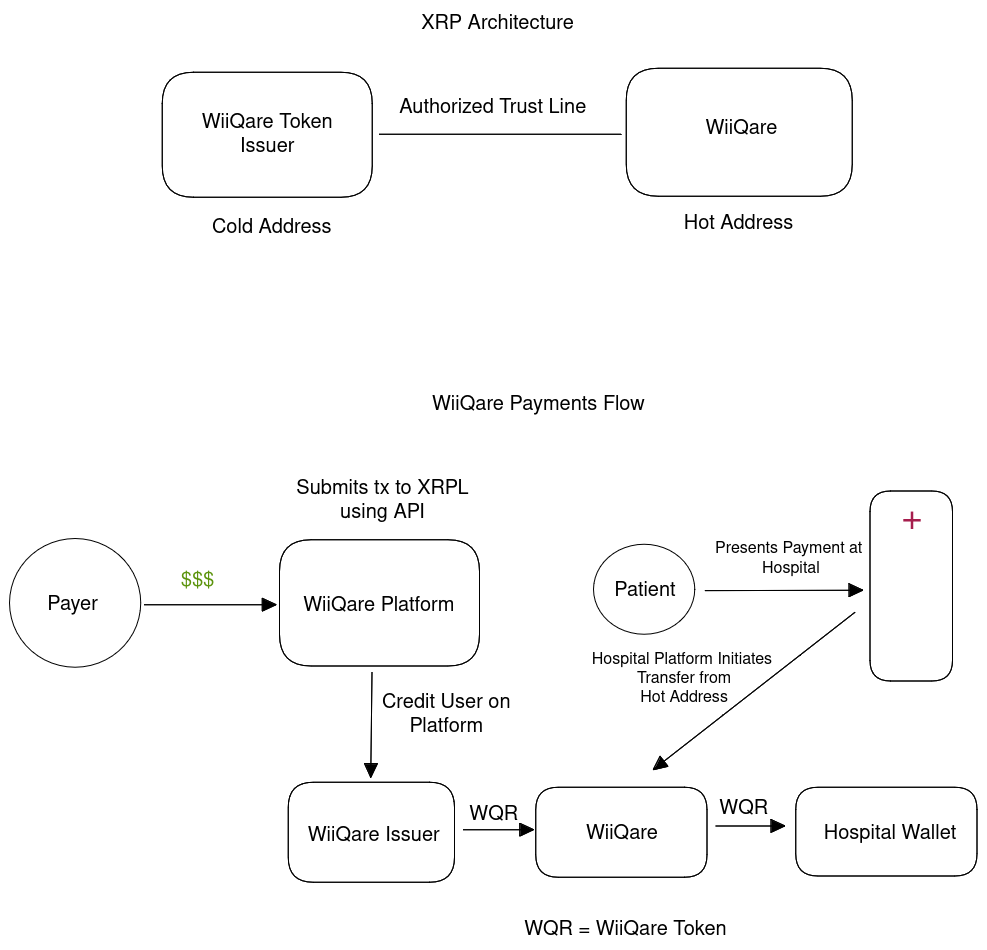
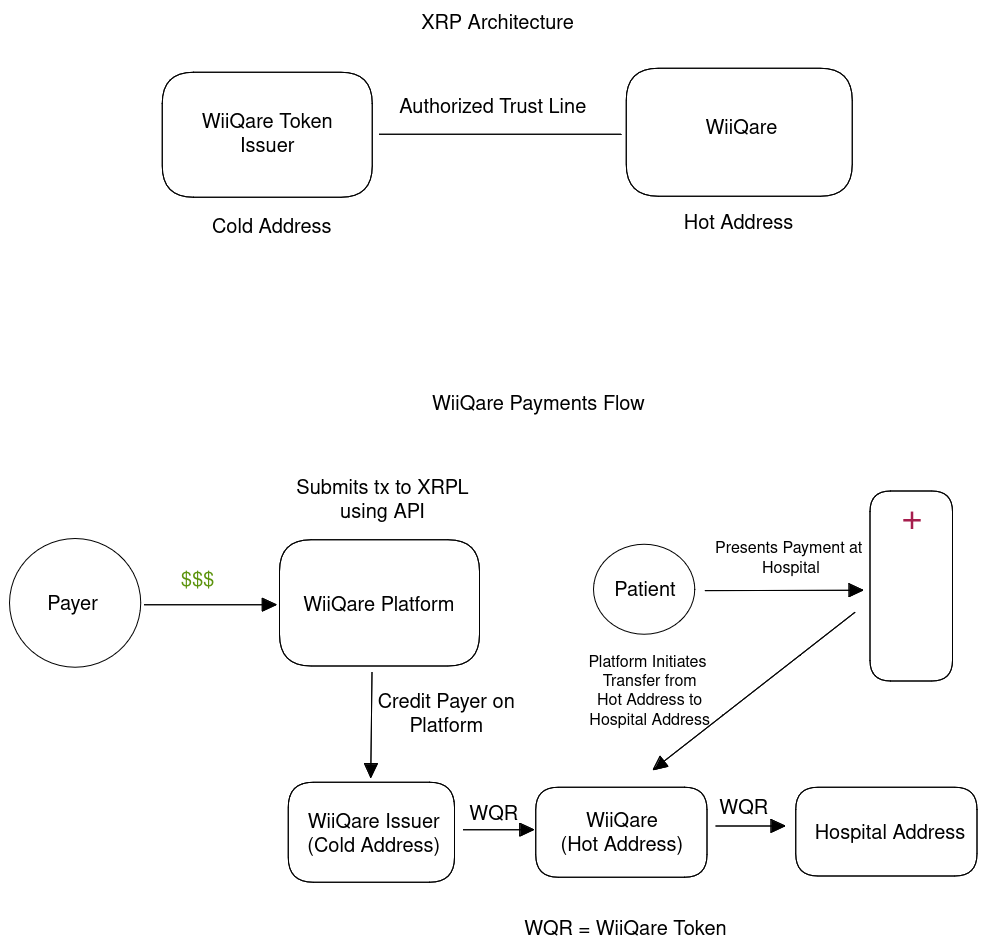
Updated diagram and README

diff --git a/README.md b/README.md
@@ -1,5 +1,5 @@
 # WiiQare-XRPL
-This is the repository hosting the proof-of-concept code for our XRPL solution. 
+This repository holds a proof-of-concept for the XRPL token issuance architecture. Internally, we use a token (WQT) pegged to USD/EUR that we use for the internal accounting of remittance funds, as well as on-chain transparency of funds for our users. Note that this token only has value within WiiQare's network, although this could change in the future. This token allows us to credit users with funds and have funds immediately available for presentation at partnered healthcare facilities. 
 
 ## Design Overview
 WiiQare is a remittance platform for healthcare in Africa. WiiQare aims to reduce remittance fees and increase speed of transfer by using crypto as an intermediary. Our platform consists of a user interface for migrants, beneficiaries, and member hospitals allowing for seamless healthcare remittances. In terms of the on-chain part of our solution, we are considering multiple approaches. Currently, we have decided on a fungible token approach. 
@@ -7,9 +7,19 @@ The payments flow currently looks like the following:
 
 ![XRPL Architecture and Payments Flow](xrpl-architecture.png)
 
-This repository holds a proof-of-concept for the XRPL token issuance architecture. Internally, we use a token (WQT) pegged to USD/EUR that we use for the internal accounting of remittance funds, as well as on-chain transparency of funds for our users. Note that this token only has value within WiiQare's network, although this could change in the future. This token allows us to credit users with funds and have funds immediately available for presentation at partnered healthcare facilities. 
+The payment flow goes as follows:
+1. Payer sends funds to WiiQare, the Payer's WiiQare account is credited with funds
+2. Once funds are received, WQR tokens are issued by the WiiQare Issuer cold wallet
+3. Tokens are transferred to WiiQare hot wallet so that they are ready for distribution.
+4. On the WiiQare platform, the Payer transfers funds to Beneficiary's WiiQare account.
+5. Beneficiary/Patient presents their payment to hospital.
+6. The WiiQare platform initiates an on-chain transfer of WQR to the hospital's associated address.
+7. Once the hospital redeems their tokens, the tokens are burned.
+
+Note that the hospital address is managed by WiiQare. 
+
 
 ## Code Walkthrough
 
-As stated earlier, this is a simple proof-of-concept for the issuance architecture. We first initialize and XRPL account and fund it, this is the cold_wallet. This account will issue WQR. Similarly, we initialize our hot wallet (hot_wallet) and fund it, enabling authorized trust lines on this account to restrict the token to WiiQare's internal network. Then, the issuer account (cold_wallet) sends WQR to the WiiQare hot wallet. 
+As stated earlier, this is a simple proof-of-concept for the issuance architecture. We first initialize and XRPL account and fund it, this is the cold_wallet. This account will issue WQR. Similarly, we initialize our hot wallet (hot_wallet) and fund it, enabling authorized trust lines on this account in order to restrict the token to WiiQare's internal network. Then, the issuer account (cold_wallet) sends WQR to the WiiQare hot wallet. 
 
